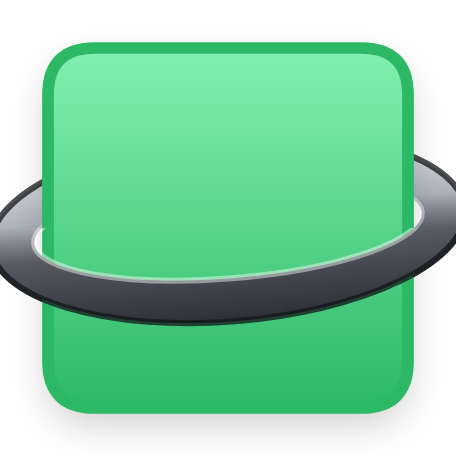
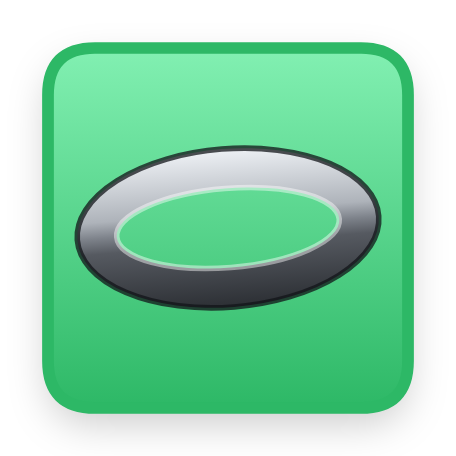
Ring idea: contain the box's horizontal ring within the cell
Shrink the closed-box horizontal ring to a wide, low ellipse fully
inside the box so it no longer overhangs into adjacent cells. Draw it on
the box face (hole shows the colour) rather than overhanging the edges.
Regenerate assets.

Claude-Session: https://claude.ai/code/session_01PjGdK4EQRB6mJyeBT2zsHj

Changed region(s): [[0.0, 0.307, 1.0, 0.7368]]

diff --git a/js/heavy.js b/js/heavy.js
@@ -94,20 +94,16 @@ function drawBoxHoopBand(rx, ry, band, tilt) {
 }
 
 // ── A still-closed heavy box ──
-// A real metal ring ENCIRCLES the box: its back arc passes behind the
-// box (top), its front arc in front (bottom), and its sides overhang the
-// box edges — not a flat oval painted on the face. Box design + colour
-// stay intact. Hidden+heavy keeps the colour concealed. Box-local coords,
-// origin at box centre.
+// A horizontal metal ring (left→right, Saturn-style) sits across the
+// box's middle — a wide, low ellipse fully contained within the box so
+// it never overlaps neighbouring cells. The hole shows the box colour,
+// which also stays visible above and below the ring. Hidden+heavy keeps
+// the colour concealed. Box-local coords, origin at box centre.
 function drawHeavyClosedBox(w, h, S, tick, ci, boxType) {
   var left = -w / 2, top = -h / 2, r = 6 * S;
-  var rx = w * 0.66, ry = h * 0.26, band = Math.max(3 * S, h * 0.12), tilt = -0.08;
+  var rx = w * 0.42, ry = h * 0.22, band = Math.max(3 * S, h * 0.11), tilt = -0.08;
 
-  // 1) Whole ring first — this is the BACK of the hoop; the box will
-  //    cover the part that sits behind it.
-  drawBoxHoopBand(rx, ry, band, tilt);
-
-  // 2) The box itself (opaque), over the ring's middle.
+  // Box first (design + colour intact)
   if (boxType === 'hidden') {
     ctx.save();
     var hg = ctx.createLinearGradient(0, top, 0, top + h);
@@ -121,12 +117,8 @@ function drawHeavyClosedBox(w, h, S, tick, ci, boxType) {
     drawBox(left, top, w, h, ci);
   }
 
-  // 3) FRONT of the hoop: redraw the band clipped to the lower half so it
-  //    passes in front of the box's bottom while the top stays behind.
-  ctx.save();
-  ctx.beginPath(); ctx.rect(left - band * 2, 0, w + band * 4, h); ctx.clip();
+  // Horizontal ring across the middle (contained within the box)
   drawBoxHoopBand(rx, ry, band, tilt);
-  ctx.restore();
 }
 
 // ── Soft "pop" when the core vanishes on landing ──
